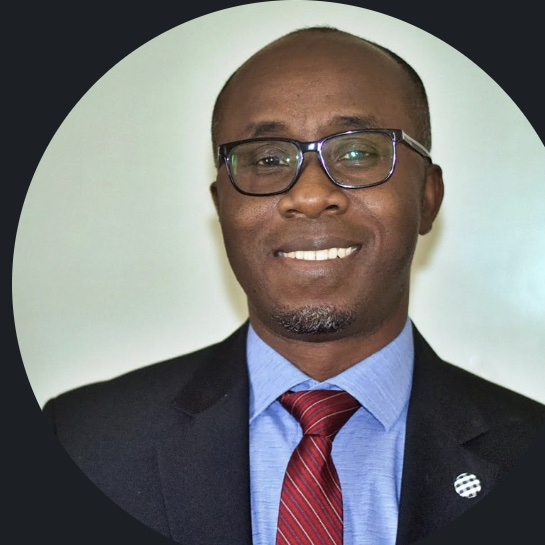
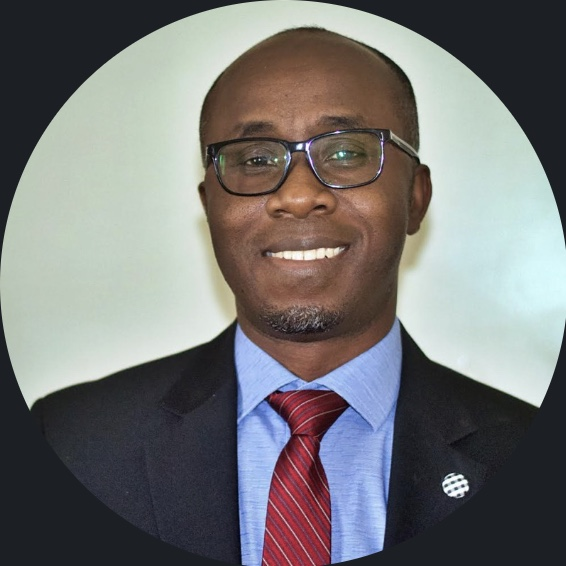
Fix Dr. Ofori-Danso portrait crop
Precisely crop the photo circle from the source (pixel-measured bounds)
so the full head, suit, and tie are visible, and reduce the display
zoom so no dark background shows in the circular frames.

diff --git a/src/index.css b/src/index.css
@@ -431,7 +431,7 @@ button {
   height: 100%;
   object-fit: cover;
   object-position: center;
-  transform: scale(1.1);
+  transform: scale(1.04);
 }
 
 .provider__role {
@@ -851,7 +851,7 @@ button {
   object-fit: cover;
   object-position: center;
   border-radius: inherit;
-  transform: scale(1.1);
+  transform: scale(1.04);
 }
 
 .spotlight h2 {